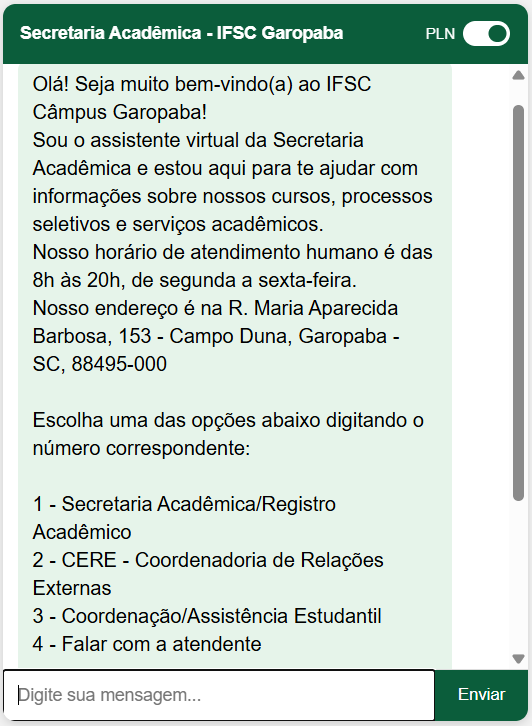
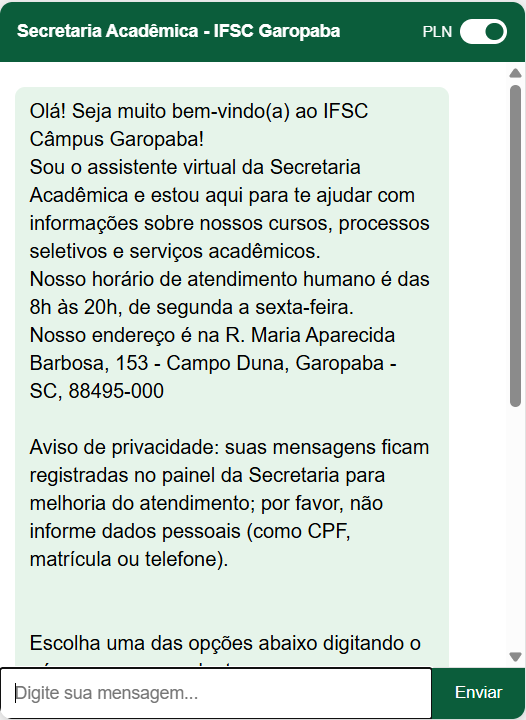
Fixes and corrections  V2

Changed region(s): [[0.0, 0.0, 1.0, 1.0], [0.8821, 0.0, 1.0, 0.7028]]

diff --git a/artigo_final.tex b/artigo_final.tex
@@ -131,20 +131,16 @@ de dados textuais, e não na interação direta com o usuário.
 
 \textbf{Evolução da Tecnologia.} A evolução dos chatbots teve início na
 década de 1960, com sistemas baseados em regras simples e respostas
-pré-programadas. Um dos primeiros exemplos foi o ELIZA, desenvolvido por
-Joseph Weizenbaum no Massachusetts Institute of Technology (MIT) (WEIZENBAUM, 1966), que
-simulava conversas semelhantes às de um psicoterapeuta. Posteriormente,
-surgiram sistemas mais avançados, como o A.L.I.C.E. e o Cleverbot,
-lançado em 2008, que inovou ao aprender com interações humanas. Outro
-marco relevante ocorreu em 2011, com o sistema IBM Watson, e, no mesmo
-período, houve a popularização dos assistentes virtuais com o lançamento
-da Siri.
-
-Conforme destaca Filatro (2020, p. 66), o desenvolvimento dos chatbots
-acompanha a evolução das tecnologias de inteligência artificial, passando
-de sistemas baseados em regras para modelos capazes de aprender com dados
-e interações humanas, tornando-se cada vez mais sofisticados e
-eficientes.
+pré-programadas. O marco pioneiro dessa área foi o programa ELIZA,
+desenvolvido por Joseph Weizenbaum no Massachusetts Institute of
+Technology (MIT), que simulava uma conversa em linguagem natural por meio
+de correspondência de padrões textuais (WEIZENBAUM, 1966). Nas décadas
+seguintes, surgiram arquiteturas mais sofisticadas e assistentes virtuais
+comerciais impulsionados pelo avanço da inteligência artificial. Conforme
+destaca Filatro (2020, p. 66), o desenvolvimento dos chatbots acompanha
+essa evolução tecnológica, passando de sistemas baseados em regras fixas
+para modelos capazes de processar linguagem natural com maior fluidez e
+eficiência.
 
 \textbf{Funcionalidades e Aplicações.} Os chatbots modernos são capazes de
 conduzir conversas interativas mais longas e contextualizadas, pois
@@ -155,9 +151,15 @@ específicas, sem manter um contexto contínuo de interação.
 
 Os chatbots podem ser classificados de acordo com a abordagem de design
 empregada: chatbots de fluxo, baseados em árvore de decisão fixa;
-chatbots com IA, que aprendem a partir de dados reais de interação;
-chatbots com reconhecimento de fala; e chatbots com dados contextuais
-integrados. O chatbot desenvolvido neste trabalho combina um fluxo guiado por menus (primeira abordagem) com um classificador de intenções por similaridade textual, que não aprende durante o uso: ele compara a mensagem com frases de exemplo previamente cadastradas, conforme detalhado na Seção~\ref{sec:desenvolvimento}.
+chatbots orientados por Processamento de Linguagem Natural (PLN), que
+interpretam texto livre por meio de técnicas estatísticas ou modelos de
+aprendizado; chatbots com reconhecimento de fala; e chatbots com dados
+contextuais integrados. O chatbot desenvolvido neste trabalho combina um
+fluxo guiado por menus (primeira abordagem) com uma técnica clássica e
+leve de PLN, sem uso de modelos de linguagem: um classificador de
+intenções por similaridade textual (TF-IDF e cosseno) que não aprende
+durante o uso, mas compara a mensagem com frases de exemplo previamente
+cadastradas, conforme detalhado na Seção~\ref{sec:desenvolvimento}.
 
 \subsection{PLN}\label{sec:pln}
 
@@ -169,13 +171,15 @@ que possibilitam que os sistemas aprendam a partir de dados e interações,
 identificando palavras, interpretando contextos e reconhecendo intenções
 nas mensagens enviadas pelos usuários (IBM, 2026).
 
-Nesse contexto, o uso do PLN se torna essencial para o desenvolvimento de
-chatbots, como o proposto neste trabalho. No caso da secretaria acadêmica
-do IFSC -- Câmpus Garopaba, a aplicação dessa tecnologia permite criar um
-sistema capaz de compreender as dúvidas dos alunos e fornecer respostas
-de forma rápida e automatizada, contribuindo para a redução de demandas
-repetitivas e para a geração de dados sobre o atendimento -- algo
-inexistente no canal de WhatsApp atualmente utilizado.
+Nesse contexto, o uso do PLN torna-se essencial para o desenvolvimento de
+chatbots como o proposto neste trabalho. Embora existam abordagens
+baseadas em aprendizado contínuo e modelos de linguagem de grande porte,
+este protótipo adota uma técnica clássica e leve de PLN para interpretar
+as dúvidas dos alunos e fornecer respostas de forma rápida e
+automatizada no âmbito da Secretaria Acadêmica do IFSC -- Câmpus
+Garopaba, contribuindo para a redução de demandas repetitivas e para a
+geração de dados sobre o atendimento -- algo inexistente no canal de
+WhatsApp atualmente utilizado.
 
 Entre as técnicas clássicas de PLN para reconhecer a intenção de uma
 mensagem está a representação do texto por TF-IDF (\textit{Term
@@ -187,9 +191,9 @@ pela similaridade de cosseno, medida entre 0 e 1 que indica o quanto dois
 vetores apontam para a mesma direção, isto é, o quanto os textos
 compartilham termos relevantes. Combinadas, essas técnicas permitem
 classificar uma mensagem pela intenção do exemplo mais parecido, sem
-exigir grandes volumes de dados nem recursos computacionais elevados -- o
-que as torna adequadas a um sistema leve como o proposto neste trabalho.
-
+exigir grandes volumes de dados, treinamento contínuo nem recursos
+computacionais elevados -- o que as torna adequadas a um sistema leve
+como o proposto neste trabalho.
 \subsection{Flask}\label{sec:flask}
 
 O Flask é um framework utilizado na linguagem Python para o
@@ -646,17 +650,27 @@ ausentes ao iniciar o sistema e preserva os registros já existentes.
 \end{table}
 \begin{multicols}{2}
 
-O acesso ao painel da Secretaria é restrito a atendentes autenticados. As
-páginas administrativas são protegidas por uma verificação de sessão: quem
-tenta acessá-las sem estar autenticado é redirecionado à tela de \textit{login}.
-As senhas não são armazenadas em texto puro, mas sob a forma de \textit{hash},
-gerado pela biblioteca Werkzeug, e a sessão do atendente é assinada com uma
-chave secreta do Flask e encerrada ao sair. Essa proteção é relevante porque o
-painel reúne mensagens dos alunos, que podem conter informações pessoais, e
-dialoga com os cuidados exigidos pela Lei Geral de Proteção de Dados (LGPD).
-Por se tratar de um protótipo, o usuário inicial, criado automaticamente na
-primeira execução, e a chave de sessão são valores padrão, que devem ser
-substituídos antes de uma implantação real. Quanto aos dados dos usuários, o sistema não solicita nome, matrícula nem e-mail e registra apenas o identificador aleatório do navegador e o texto das mensagens, que o aluno escreve livremente; por isso, antes de uma implantação real, é necessário exibir um aviso de que as mensagens são registradas, definir a finalidade e o prazo de retenção dos registros e orientar o usuário a não informar dados pessoais no texto livre.
+O acesso ao painel da Secretaria é restrito exclusivamente a servidores
+autenticados. As páginas administrativas são protegidas por verificação
+de sessão: quem tenta acessá-las sem estar autenticado é redirecionado à
+tela de login. As senhas não são armazenadas em texto puro, mas sob a
+forma de \textit{hash} gerado pela biblioteca Werkzeug, e a sessão do
+atendente é assinada com uma chave secreta do Flask e encerrada ao sair.
+Por se tratar de um protótipo, o usuário inicial criado automaticamente
+na primeira execução e a chave de sessão são valores padrão que devem ser
+obrigatoriamente substituídos antes de uma implantação em produção.
+
+Quanto à privacidade dos usuários, em alinhamento ao princípio da
+minimização da Lei Geral de Proteção de Dados Pessoais -- LGPD
+(Lei n\textsuperscript{o}~13.709/2018) (BRASIL, 2018), o sistema não
+solicita login, nome completo, CPF, matrícula nem e-mail, registrando
+apenas o identificador aleatório de sessão e o texto das mensagens. Como
+o campo aberto permite que o usuário envie dados pessoais por iniciativa
+própria, a mensagem de boas-vindas exibe um aviso explícito informando
+que as interações são registradas para melhoria do atendimento e
+orientando a não informar dados sensíveis, ficando prevista para a
+implantação definitiva a definição formal da finalidade e do prazo de
+retenção dos registros.
 
 \subsection{Fluxo Guiado por Menus}
 
@@ -930,7 +944,7 @@ Para orientar o aprimoramento do classificador, analisaram-se quatro falhas repr
 
   \item \textbf{Sensibilidade a erros ortográficos:} na entrada ``preciso justficar uma auzencia'' (esperado: \texttt{justificativa\_ausencia}), os erros de digitação geraram tokens ausentes no vocabulário indexado pelo TF-IDF, resultando em similaridade máxima de 0,2558 (abaixo de 0,30) e falha também na busca por palavras-chave. A inclusão de \textit{n}-gramas de caracteres (3 a 5 letras) no \texttt{classifier.py} permitiria capturar semelhanças parciais mesmo diante de trocas ou omissões de letras.
 
-  \item \textbf{Falso positivo fora de escopo por termo institucional compartilhado:} a pergunta ``qual a senha do wifi do campus?'' (esperado: fora de escopo) foi classificada como \texttt{1.2} (similaridade 0,4648), pois a palavra ``campus'' aparece com frequência nos exemplos de cursos ofertados. Definir uma lista de \textit{stopwords} institucionais (como ``campus'', ``ifsc'' e ``garopaba'') evitaria que termos genéricos acionem serviços específicos.
+  \item \textbf{Falso positivo fora de escopo por termo institucional compartilhado:} a pergunta ``qual a senha do wifi do câmpus?'' (esperado: fora de escopo) foi classificada como \texttt{1.2} (similaridade 0,4648), pois a palavra ``câmpus'' aparece com frequência nos exemplos de cursos ofertados. Definir uma lista de \textit{stopwords} institucionais (como ``câmpus'', ``ifsc'' e ``garopaba'') evitaria que termos genéricos acionem serviços específicos.
 \end{itemize}
 
 \subsection{Registro no Painel e Validação com o Servidor da Secretaria}
